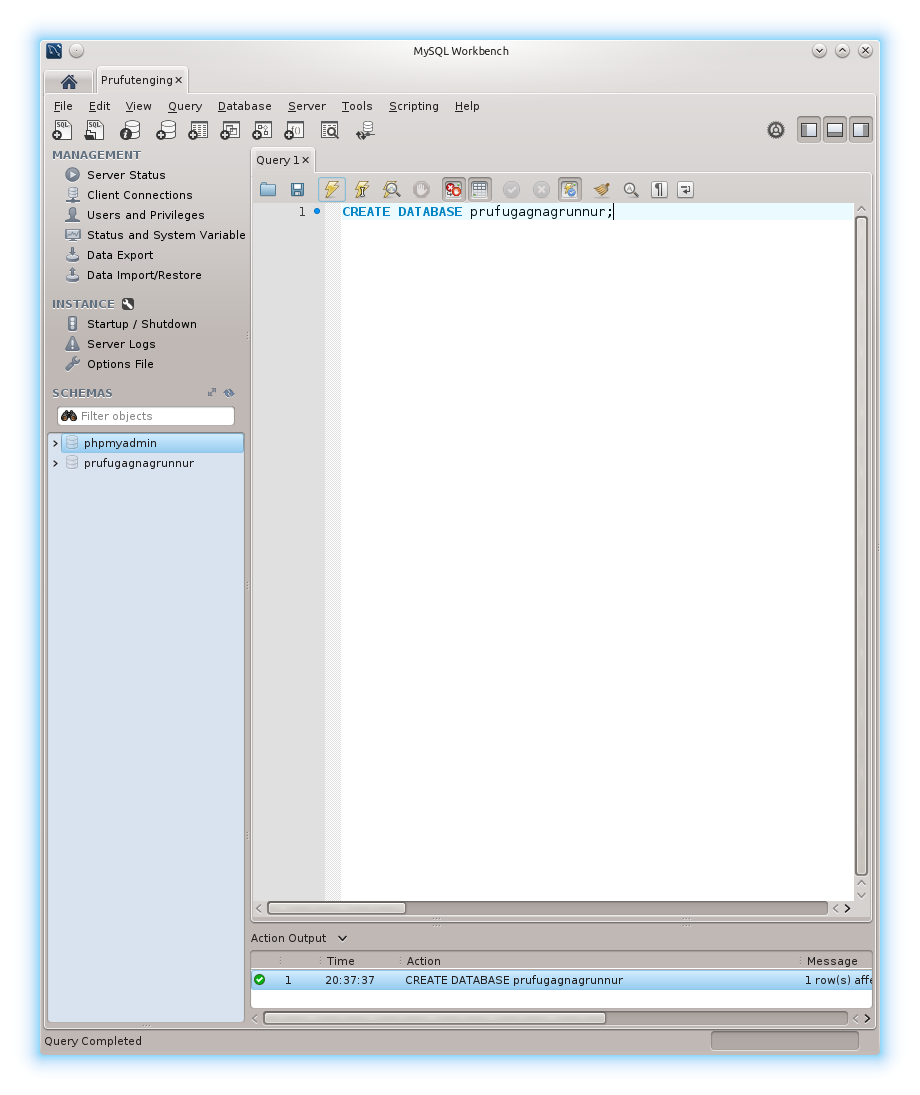
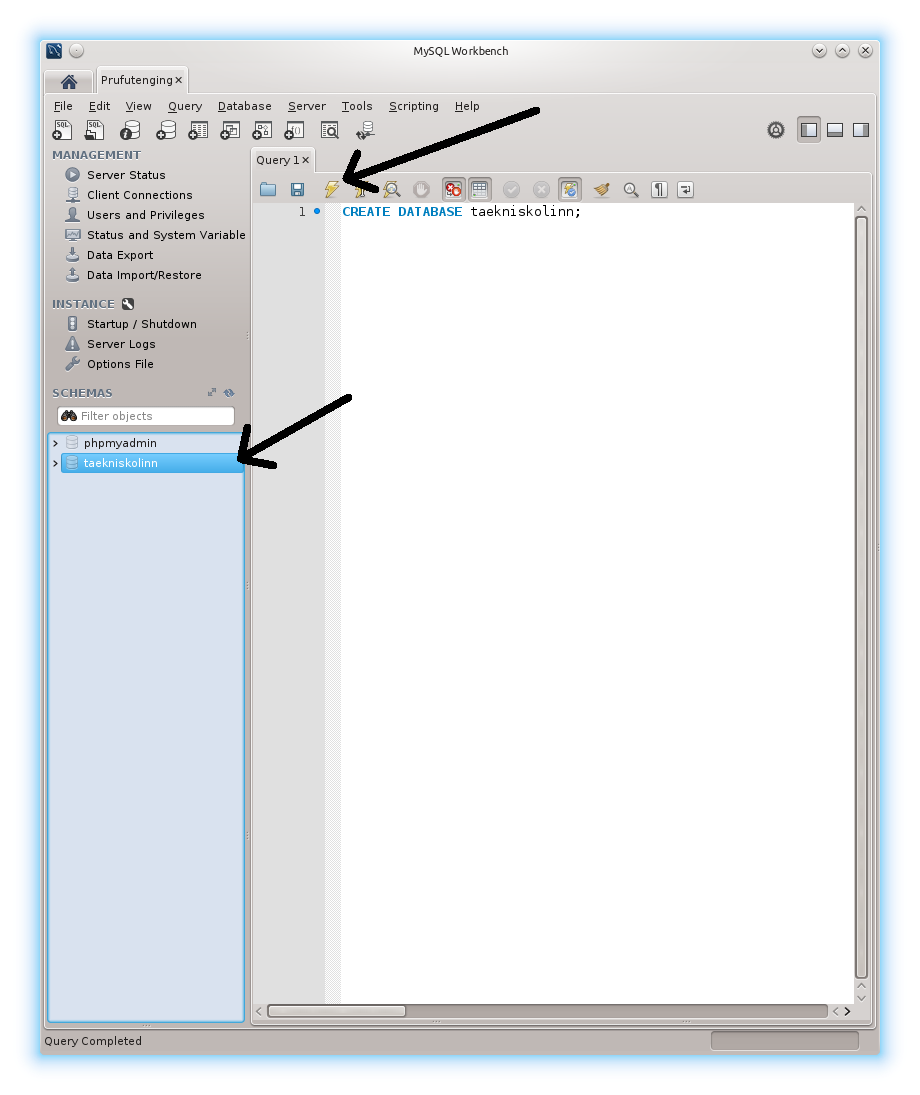
Kafli 2 lesinn yfir. TeX endurbætt. Undirköflum bætt við. SQL-sýnidæmi endurskýrð. Textaviðbætur.

diff --git a/Kafli2.tex b/Kafli2.tex
@@ -5,7 +5,7 @@ Byrjum á að skoða grundvallaraðgerðirnar í SQL - það að búa gagnagrunn
 \section{Gagnagrunnar}
 Fram kom í kafla \ref{kafli:inngangur} að gagnagrunnur sé \emph{skipulagt samansafn af upplýsingum}. Einnig kom fram að upplýsingarnar eru hlutaðar niður með ``töflum''.
 \begin{marginfigure}
-\caption[Uppbygging gagnagrunns]{Uppbygging einfalds gagnagrunns með þremur töflum.}
+\caption[Uppbygging gagnagrunns]{Uppbygging einfalds gagnagrunns með þremur töflum}
 \label{mynd:uppbygginggagnagrunns}
 \centering
 \includegraphics[width=\linewidth]{myndir/uppbygging-gagnagrunns}
@@ -17,7 +17,7 @@ Hér er vert að taka nokkur atriði fram:
 \end{itemize}
 Líkja mætti gagnagrunni við ``möppu'' í tölvu sem inniheldur töflur\footnote{Reyndar getur gagnagrunnur innihaldið ýmislegt annað en töflur. Slík atriði eru tekin fyrir í seinni áföngum.}. Hægt er að búa til gagnagrunna á tölvu, setja í hann töflur og skoða innihald þeirra.
 
-Við sjáum dæmi um hvernig búa má til gagnagrunn í undirkafla \nameref{undirkafli:synidaemi_i_sql}.
+Við sjáum dæmi um hvernig búa má til gagnagrunn í undirkaflanum \nameref{undirkafli:synidaemi_i_sql}.
 \section{Töflur}
 Gögn í SQL-gagnagrunni má líta á sem raðir í töflum. Því hlýtur mikilvægt skref í því að læra að nota SQL að vera það að skilja uppbyggingu taflna mjög nákvæmlega.
 
@@ -25,80 +25,100 @@ Lítum fyrst á dæmigerða töflu.
 
 \begin{table}
 \centering
-\caption{Nokkrir starfsmenn Tækniskólans}
+\caption[Nokkrir starfsmenn Tækniskólans]{Nokkrir starfsmenn Tækniskólans}
 \label{tafla:starfsmenn_ts}
 \begin{tabular}{lll}
 \toprule
 Nafn&Starfsheiti&Netfang\\
 \midrule
 Bjargey G. Gísladóttir&Skólastjóri&bbg@tskoli.is\\
+Donatas Butkus&Tölvuþjónusta&db@tskoli.is\\
 Eiríkur Ernir Þorsteinsson&Kennari&eet@tskoli.is\\
 Emil Gautur Emilsson&Kennari&ege@tskoli.is\\
-% Donatas Butkus&Tölvuþjónusta&db@tskoli.is\\
 Geir Sigurðsson&Kennari&ges@tskoli.is\\
 Gunnar Þórunnarson&Kennari&gus@tskoli.is\\
 Guðmundur Jón Guðjónsson&Kennari&gjg@tskoli.is\\
 Guðrún Randalín Lárusdóttir&Kennari&grl@tskoli.is\\
 Hallur Ó. Karlsson&Kennari&hal@tskoli.is\\
 Konráð Guðmundsson&Kennari&kng@tskoli.is\\
-% Matthias Skúlason&Tölvuþjónusta&matti@tskoli.is\\
+Matthias Skúlason&Tölvuþjónusta&matti@tskoli.is\\
 Sigurður R. Ragnarsson&Kennari&srr@tskoli.is\\
 Snorri Emilsson&Kennari&sem@tskoli.is\\
-% Tryggvi Jóhannsson&Kerfisstjóri&tj@tskoli.is\\
+Tryggvi Jóhannsson&Kerfisstjóri&tj@tskoli.is\\
 Þórarinn J. Kristjánsson&Kennari&tjk@tskoli.is\\
 \bottomrule
 \end{tabular}
 \end{table}
 Eins og allar alvöru töflur inniheldur þessi starfsmannatafla annarsvegar \emph{dálkheiti} og hins vegar \emph{gögn}. Dálkheitin eru ``Nafn'', ``Starfsheiti'' og ``Netfang''. Dæmi um upplýsingar eru að til sé starfsmaður sem heitir ``Eiríkur Ernir Þorsteinsson'', sem er ``Kennari'' og hefur netfangið ``eet@tskoli.is''. 
 
-Mikilvægt er að átta sig á þessum mun - hver einasta tafla sem unnið er með inniheldur dálkheiti og gögn, sem eru aðskilin fyrirbrigði. Þetta á augljóslega við ``hefðbundnar'' töflur sem við sjáum á prenti og í forritum á borð við Microsoft Excel. En taktu eftir því að þetta á en líka við töflur sem við skilgreinum með SQL-skipunum.
+Mikilvægt er að átta sig á þessum mun - hver einasta tafla sem unnið er með inniheldur dálkheiti og gögn, sem eru aðskilin fyrirbrigði. Þetta á augljóslega við ``hefðbundnar'' töflur sem við sjáum á prenti og í forritum á borð við Microsoft Excel. 
+
+En þetta á en líka við töflur sem við skilgreinum með SQL-skipunum. SQL-töflur innihalda dálkheiti og gögn, alveg eins og við myndum búast við af venjulegum töflum.
 
 Þegar töflur eru sýndar á prenti er venjan að dálkheitin komi fram í fyrstu línu töflunnar (og oftast aðskilin gögnunum með striki). Gögnin koma fram í næstu línum.
 
-Þegar SQL er notað til að lýsa töflum eru dálkheitin og aðrar upplýsingar sem skilgreina töfluna sjálfa búnar til með sérstökum skipunum. Aðrar skipanir eru notaðar til að vinna með gögnin sjálf. Við sjáum dæmi um þessar skipanir í undirkaflanum \nameref{undirkafli:synidaemi_i_sql}. 6\footnote{Betur verður farið í muninn á þessum skipunum í kafla \ref{kafli:uppfaera}}
+Þegar SQL er notað til að lýsa töflum eru dálkheitin og aðrar upplýsingar sem skilgreina töfluna sjálfa búnar til með sérstökum skipunum. Aðrar skipanir eru notaðar til að vinna með gögnin sjálf. Við sjáum dæmi um þessar skipanir í undirkaflanum \nameref{undirkafli:synidaemi_i_sql}. \footnote{Farið í muninn á skipunum sem skilgreina töflur og skipunum sem vinna með gögn í kafla \ref{kafli:uppfaera}.}
 \section{Fyrirspurnir}
 Ekki er mikið gagn í því að geyma upplýsingar í töfluformi nema að hægt sé að ná í þær aftur.
 
-Einfalt er að fletta upp upplýsingum í litlum töflum á borð við töflu \ref{tafla:starfsmenn_ts}. Viljum við t.d. komast að því hver er með netfangið ``kng@tskoli.is'' dugar okkur að láta augun reika yfir töfluna þar til við rekumst á netfangið og líta svo í starfsmannadálkinn.
+Einfalt er að fletta upp upplýsingum í litlum töflum á borð við töflu \ref{tafla:starfsmenn_ts} þegar þær eru prentaðar út. Viljum við t.d. komast að því hver er með netfangið ``kng@tskoli.is'' dugar okkur að láta augun reika yfir töfluna þar til við rekumst á netfangið og líta svo í starfsmannadálkinn.
 
 Væri taflan örlítið stærri væri verkefnið strax erfiðara. Væri taflan á stærð við símaskrána væri það nær ómögulegt.
 
-Slíkar uppflettingar, stórar og smáar, eru sérsvið SQL. Þær eru nefndar \emph{fyrirspurnir} og eru framkvæmdar með mjög mikilvægri SQL-skipun sem heitir \emph{SELECT}. Við sjáum dæmi um SELECT-skipanir í undirkafla \nameref{undirkafli:synidaemi_i_sql} og kynnumst þeim náið í kafla \ref{kafli:select}.
+Slíkar uppflettingar, stórar og smáar, eru sérsvið SQL. Þær eru nefndar \emph{fyrirspurnir} og eru framkvæmdar með mjög mikilvægri SQL-skipun sem heitir \emph{SELECT}. Við sjáum dæmi um SELECT-skipun í næsta undirkafla og kynnumst þeim náið í kafla \ref{kafli:select}.
 
 \section{Sýnidæmi í SQL}
 \label{undirkafli:synidaemi_i_sql}
 Skoðum hvernig búa má til töflu \ref{tafla:starfsmenn_ts} með SQL, setja í hana gögn og sækja gögnin aftur. 
 
-Eins og fram hefur komið þarf til þess að nota SQL-skipanir.
+Eins og fram hefur komið þarf til þess að nota SQL-skipanir. 
 
-\begin{example}[h]
-\caption{CREATE skipun fyrir starfsmannatöfluna}
-\label{sql:k2d1}
+\subsection{Skilgreining gagnagrunns}
+Okkar fyrsta verk verður að vera að búa til gagnagrunn til að setja hana í. Slíka skipun má sjá á sýnidæmi \ref{sql:k2d4-create-database}.
+
+\begin{example}
+\caption{CREATE DATABASE skipun fyrir Tækniskólagagnagrunninn}
+\label{sql:k2d4-create-database}
 \centering
-\sql{sql/k2d1.sql}
+\sql{sql/k2d4-create-database.sql}
 \end{example}
 
-Skipunina til að skilgreina töfluna má sjá á SQL-sýnidæmi \ref{sql:k2d1}. Þetta er mjög dæmigerð skipun til að búa til töflu. Þar kemur fram hvað gera skal (búa til töflu $\rightarrow$ \verb|CREATE TABLE|) og hver dálkheitin eru (nafn, Starfsheiti og netfang). Í kafla \ref{kafli:uppsetningtaflna} skoðum við hin orðin sem koma fyrir í skipuninni og í kafla \ref{undirkafli:keyrslaiworkbench} sjáum við hvernig koma má skipuninni í gagnið.
+Skipunin er ein lína. Hér vill reyndar svo til að hún er nálægt því að vera málfræðilega rétt setning á ensku. Hún er einfaldlega lýsing á því sem við viljum að gagnagrunnskerfið geri fyrir okkur: ``búðu til gagnagrunn með nafnið \verb|taekniskolinn|''!
 
-Hér ber að athuga að enn eru engin gögn komin inn í töfluna. Það má gera með skipuninni í SQL-sýnidæmi \ref{sql:k2d2}.
+Þetta er mjög einkennandi fyrir SQL. Í SQL erum við nær alltaf að lýsa því \emph{hvað} við viljum gera frekar en \emph{hvernig} við gerum það. Þetta gerir SQL frábrugðið flestum vinsælum forritunarmálum.
+
+\subsection{Skilgreining töflu og innsetning gagna}
+Skipunina til að skilgreina töfluna má sjá á SQL-sýnidæmi \ref{sql:k2d1-create-table}. Þetta er mjög dæmigerð skipun til að búa til töflu. Þar kemur fram hvað gera skal (búa til töflu $\rightarrow$ \verb|CREATE TABLE|) og hver dálkheitin eru (nafn, Starfsheiti og netfang). Í kafla \ref{kafli:uppsetningtaflna} skoðum við hin orðin sem koma fyrir í skipuninni og í næsta undirkafla sjáum við hvernig koma má skipuninni í gagnið.
+
+\begin{example}[h]
+\caption{CREATE TABLE skipun fyrir starfsmannatöfluna}
+\label{sql:k2d1-create-table}
+\centering
+\sql{sql/k2d1-create-table.sql}
+\end{example}
+
+Hér ber að athuga að enn eru engin gögn komin inn í töfluna. Það má gera með skipuninni í SQL-sýnidæmi \ref{sql:k2d2-insert}.
 
 \begin{example}[h]
 \caption{INSERT skipun fyrir starfsmannatöfluna}
-\label{sql:k2d2}
+\label{sql:k2d2-insert}
 \centering
 {\small
-\sql{sql/k2d2.sql}
+\sql{sql/k2d2-insert.sql}
 }
 \end{example}
 
-Til að sækja gögn úr töflunni þarf síðan að framkvæma fyrirspurn. Dæmi um fyrirspurn (SQL-skipun) sem finnur nafn þess starfsmanns sem er með netfangið ``kng@tskoli.is'' má sjá á sýnidæmi \ref{sql:k2d3}.
+\subsection{Fyrirspurnir}
+Til að sækja gögn úr töflunni þarf síðan að framkvæma fyrirspurn. Dæmi um fyrirspurn (SQL-skipun) sem finnur nafn þess starfsmanns sem er með netfangið ``kng@tskoli.is'' má sjá á sýnidæmi \ref{sql:k2d3-select}.
 
 \begin{example}[h]
 \caption{SELECT skipun sem finnur Konráð kennara í starfsmannatöflunni}
-\label{sql:k2d3}
+\label{sql:k2d3-select}
 \centering
-\sql{sql/k2d3.sql}
+\sql{sql/k2d3-select.sql}
 \end{example}
+
+Athugum hvað kemur fram í fyrirspurninni. Við getum séð þrjá aðalhluta - lýsingu á því hvað gera skal (finna nafn/\verb|SELECT nafn|), hvaðan upplýsingarnar skulu koma (úr starfsmannatöflunni/\verb|FROM Starfsmenn|) og hvaða \emph{skilyrði} gilda um gögnin sem finna skal (gögnin þar sem netfangið er kng@tskoli.is/\verb|WHERE netfang = "kng@tskoli.is"|). 
 
 \section{Keyrsla í MySQL Workbench}
 \label{undirkafli:keyrslaiworkbench}
@@ -108,16 +128,16 @@ Um nokkur skref er að ræða.
 \begin{enumerate}
  \item Ræsa þarf forritið. Við það birtist upphafsskjár, líkur þeim sem sjá má á mynd \ref{mynd:workbench-upphafsskjar}.\footnote{Útlit MySQL Workbench er eðli málsins samkvæmt örlítið mismunandi eftir stýrikerfum og útgáfum á forritinu. Skjáskotin eru tekin af Workbench útgáfu 6.0, á Linux vél.}
  \item Mynda þarf tengingu við MySQL-server. Henni þarf að gefa nafn, IP-tölu MySQL serversins, notandanafn og lykilorð.\footnote{Nemendur Tölvudeildar Tækniskólans skulu biðja kennarann um þessar upplýsingar.} Sjá mynd \ref{mynd:workbench-login}.
- \item Búa þarf til nýjan gagnagrunn á MySQL-servernum á skjánum sem birtist eftir að tengingin er mynduð. Það er einfaldast að gera með svokallaðri \verb|CREATE DATABASE| skipun, slegin inn í aðalgluggann - sjá mynd \ref{mynd:workbench-create-db}. Þegar þessu er lokið höfum við keyrt okkar fyrstu SQL-skipun!
- \item Skipunin í sýnidæmi \ref{sql:k2d1} er slegin inn í aðalgluggann og keyrð. Taflan er þá komin inn!
+ \item Búa þarf til nýjan gagnagrunn á MySQL-servernum á skjánum sem birtist eftir að tengingin er mynduð. Það er gert með \verb|CREATE DATABASE| skipun, sjá mynd \ref{mynd:workbench-create-db}. Þegar þessu er lokið höfum við keyrt okkar fyrstu SQL-skipun!
+ \item Skipunin í sýnidæmi \ref{sql:k2d1-create-table} er slegin inn í aðalgluggann og keyrð. Taflan er þá komin inn.
 \end{enumerate}
-Ávallt má gera ráð fyrir að SQL-sýnidæmi í þessari bók megi keyra með hliðstæðum hætti - í aðalglugga MySQL Workbench. T.d. mætti keyra sýnidæmi \ref{sql:k2d2} og \ref{sql:k2d3} á þann hátt.
+Ávallt má gera ráð fyrir að SQL-sýnidæmi í þessari bók megi keyra með hliðstæðum hætti - í aðalglugga MySQL Workbench. T.d. mætti keyra sýnidæmi \ref{sql:k2d2-insert} og \ref{sql:k2d3-select} á þann hátt.
 
 \begin{figure*}
 \caption[Upphafsskjár MySQL Workbench]{Upphafsskjár MySQL Workbench. Örin vísar á hnapp sem nota má til að búa til nýja tengingu.}
 \label{mynd:workbench-upphafsskjar}
 \centering
-\includegraphics[width=\linewidth]{myndir/workbench-upphafsskjar-or}
+\includegraphics[width=\linewidth]{myndir/workbench-upphafsskjar}
 \end{figure*}
 
 \begin{figure*}
@@ -131,7 +151,7 @@ Um nokkur skref er að ræða.
 \caption[Nýr gagnagrunnur]{Nýr gagnagrunnur búinn til með MySQL Workbench. Efri örin vísar á hnappinn sem ýta þarf á til að keyra SQL-skipunina. Neðri örin vísar á lista af gagnagrunnum sem sýnilegir eru á servernum. Birtist gagnagrunnurinn sem búinn er til ekki um leið og skipunin er keyrð, hægri-smellið þá á listann og ``refresh''ið hann.}
 \label{mynd:workbench-create-db}
 \centering
-\includegraphics[width=0.8\linewidth]{myndir/workbench-create-db-or}
+\includegraphics[width=0.8\linewidth]{myndir/workbench-create-db}
 \end{figure*}
 
 \begin{figure*}
